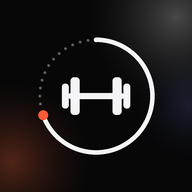
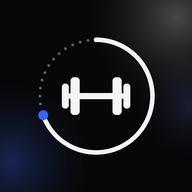
Azul royal como cor de destaque em todo o app e no ícone
Claude-Session: https://claude.ai/code/session_01H3tQpBPSyvaCY1RAgpn5Rv

Changed region(s): [[0.0, 0.6562, 0.25, 1.0], [0.1875, 0.5625, 0.25, 0.625]]

diff --git a/index.html b/index.html
@@ -24,7 +24,7 @@
 :root{
   --bg:#070708;--txt:#F5F5F7;--muted:#A1A1A6;--muted2:#8E8E93;
   --vidro:rgba(255,255,255,.07);--vidro2:rgba(255,255,255,.10);--borda:rgba(255,255,255,.10);--borda2:rgba(255,255,255,.16);
-  --campo:rgba(0,0,0,.32);--ok:#32D74B;--warn:#FF9F0A;--err:#FF453A;--info:#64D2FF;--vivo:#FF5A36;
+  --campo:rgba(0,0,0,.32);--ok:#32D74B;--warn:#FF9F0A;--err:#FF453A;--info:#64D2FF;--vivo:#2F55F0;--vivo-txt:#6C8CFF;
   --num:'Barlow Condensed',system-ui,sans-serif;--mola:cubic-bezier(.2,.8,.2,1);
   --nav-h:60px;--nav-b:16px;--topo-h:0px;--sessao-h:0px;--sb:env(safe-area-inset-bottom,0px);
 }
@@ -36,7 +36,7 @@ body{margin:0;min-height:100vh;color:var(--txt);
   padding:env(safe-area-inset-top,0px) env(safe-area-inset-right,0px) 0 env(safe-area-inset-left,0px)}
 body::before{content:'';position:fixed;inset:0;z-index:-1;pointer-events:none;background:
   radial-gradient(circle 440px at 100% 0%,rgba(255,255,255,.17),transparent 65%),
-  radial-gradient(circle 400px at 0% 72%,rgba(255,106,61,.17),transparent 65%),
+  radial-gradient(circle 400px at 0% 72%,rgba(47,85,240,.22),transparent 65%),
   radial-gradient(circle 300px at 100% 45%,rgba(130,150,255,.12),transparent 65%),var(--bg)}
 main{max-width:640px;margin:0 auto;padding:calc(16px + var(--topo-h)) 14px calc(var(--nav-h) + var(--nav-b) + var(--sb) + 28px)}
 #main .card,#main [id]{scroll-margin-top:calc(var(--topo-h) + 12px)}
@@ -139,7 +139,7 @@ details[open]>summary::before{transform:rotate(45deg)}
 .cal-d.sel{background:var(--txt);color:#0A0A0B}
 .cal-d .pts{display:flex;gap:4px;height:7px;font-style:normal}
 .pf,.pc{display:inline-block;width:7px;height:7px;border-radius:50%}
-.pf{background:#fff}.pc{background:#FF5A36}
+.pf{background:#fff}.pc{background:var(--vivo)}
 .cal-d.sel .pf{background:#0A0A0B}
 .cal-leg{display:flex;gap:18px;justify-content:center;margin-top:10px;font-size:13px;color:var(--muted2)}
 .cal-leg span{display:flex;align-items:center;gap:8px}
@@ -272,7 +272,7 @@ button.link{background:none;border:0;padding:0;min-height:0;color:var(--txt);tex
 #timer .t-meta{color:var(--muted);font-size:13px}
 #timer .t-parar{align-self:flex-start;margin-top:4px;min-height:44px;padding:0 18px;font-size:14px}
 #timer.pronto .t-prog{stroke:var(--vivo)}
-#timer.pronto .t-meta{color:var(--vivo)}
+#timer.pronto .t-meta{color:var(--vivo-txt)}
 #timer.passou .t-prog{stroke:var(--warn)}
 #timer.passou .t-meta{color:var(--warn)}
 #timer.pisca{animation:pisca .35s ease-in-out 4}
@@ -909,7 +909,7 @@ function viewHoje() {
   return els;
 }
 
-// 1.7.0: calendário do mês. Ponto branco = Academia, ponto laranja = Corrida (um treino não depende do dia da semana).
+// 1.7.0: calendário do mês. Ponto branco = Academia, ponto azul = Corrida (um treino não depende do dia da semana).
 // Toque no dia: abre essa data na tela Hoje.
 function marcasDoDia() {
   const m = new Map();
@@ -918,7 +918,7 @@ function marcasDoDia() {
   for (const o of Sessao.finalizadas()) add(o.data, o.dia);
   return m;
 }
-// Tira da semana (seg a dom) da data aberta: ponto branco = Academia, laranja = Corrida. Toque abre o dia.
+// Tira da semana (seg a dom) da data aberta: ponto branco = Academia, azul = Corrida. Toque abre o dia.
 function cardSemana() {
   const hj = hoje(), seg = somarDias(UI.data, -((diaDaSemana(UI.data) + 6) % 7)), marcas = marcasDoDia();
   const cols = [0, 1, 2, 3, 4, 5, 6].map(i => {
@@ -2570,7 +2570,7 @@ function apagarTudo() {
    do relógio (batimentos, ritmo e percurso a cada 5 s). Sem detalhe, mostra só os totais.
    ========================================================================== */
 const MESES_CURTO = ['jan', 'fev', 'mar', 'abr', 'mai', 'jun', 'jul', 'ago', 'set', 'out', 'nov', 'dez'];
-const REL_COR = { fundo: '#070708', txt: '#F5F5F7', muted: '#A1A1A6', vivo: '#FF5A36' };
+const REL_COR = { fundo: '#070708', txt: '#F5F5F7', muted: '#A1A1A6', vivo: '#2F55F0', vivoTxt: '#6C8CFF' };
 const REL_FORMATOS = [
   { id: 'painel', nome: 'Painel', w: 1080, h: 1920 }, // 1.7.0: o mesmo desenho do vídeo, no último quadro
   { id: 'stories', nome: 'Stories', w: 1080, h: 1920 },
@@ -2682,7 +2682,7 @@ function relFundo(c, w, h) {
     c.fillStyle = g; c.fillRect(0, 0, w, h);
   };
   brilho(w, 0, 1180, '255,255,255', 0.17);
-  brilho(0, h * 0.72, 1080, '255,106,61', 0.17);
+  brilho(0, h * 0.72, 1080, '47,85,240', 0.22);
   brilho(w, h * 0.45, 800, '130,150,255', 0.12);
 }
 function relCartao(c, x, y, w, h, r = 52) {
@@ -2700,13 +2700,13 @@ function relCabecalho(c, a, y) {
   const hora = relHora(a);
   relTexto(c, `CORRIDA · ${relDataTxt(a).toUpperCase()}${hora ? ' · ' + hora.toUpperCase() : ''}`, REL_M, y, { px: 30, peso: 600, cor: REL_COR.muted, ls: 6 });
 }
-// número grande + unidade em laranja
+// número grande + unidade em azul
 function relHero(c, a, y, px) {
   const val = a.km != null ? fmtKm(a.km) : a.t != null ? fmtTempo(a.t) : '—';
   const w = relTexto(c, val, REL_M - 6, y, { px, num: true });
-  if (a.km != null) relTexto(c, 'km', REL_M - 6 + w + px * 0.07, y, { px: px * 0.3, num: true, cor: REL_COR.vivo });
+  if (a.km != null) relTexto(c, 'km', REL_M - 6 + w + px * 0.07, y, { px: px * 0.3, num: true, cor: REL_COR.vivoTxt });
 }
-// linha de números com barra laranja à esquerda
+// linha de números com barra azul à esquerda
 function relStats(c, itens, x, y, w, { px = 110, alt = 150 } = {}) {
   const lista = itens.filter(i => i && i.val != null);
   if (!lista.length) return;
@@ -2725,7 +2725,7 @@ const relItensBase = a => [
   a.kcal != null ? { rot: 'Calorias', val: String(a.kcal), un: 'kcal' } : a.fcm != null ? { rot: 'FC média', val: String(a.fcm), un: 'bpm' } : null
 ].filter(Boolean);
 
-// percurso: ida em laranja, volta tracejada; largada, retorno e chegada marcados
+// percurso: ida em azul, volta tracejada; largada, retorno e chegada marcados
 function relRota(c, a, bx, by, bw, bh, { rotulos = true, esp = 9, brilho = false } = {}) {
   const P = a.rota;
   if (!P || P.length < 2) return false;
@@ -2738,7 +2738,7 @@ function relRota(c, a, bx, by, bw, bh, { rotulos = true, esp = 9, brilho = false
   const traco = (de, ate) => { c.beginPath(); for (let j = de; j <= ate; j++) (j === de ? c.moveTo(X(P[j]), Y(P[j])) : c.lineTo(X(P[j]), Y(P[j]))); c.stroke(); };
   c.save();
   c.lineCap = 'round'; c.lineJoin = 'round';
-  if (brilho) { c.shadowColor = 'rgba(255,90,54,.75)'; c.shadowBlur = 36; }
+  if (brilho) { c.shadowColor = 'rgba(47,85,240,.8)'; c.shadowBlur = 36; }
   c.strokeStyle = REL_COR.vivo; c.lineWidth = esp; traco(0, k);
   c.shadowBlur = 0;
   if (a.retorno) { c.strokeStyle = 'rgba(245,245,247,.82)'; c.lineWidth = esp * 0.55; c.setLineDash([esp * 1.7, esp * 1.5]); traco(k, P.length - 1); c.setLineDash([]); }
@@ -2821,7 +2821,7 @@ function relGraficoFC(c, a, x, y, w, h, { eixos = true } = {}) {
   c.save();
   c.beginPath(); pts.forEach(([px, py], i) => (i ? c.lineTo(px, py) : c.moveTo(px, py)));
   c.lineTo(pts[pts.length - 1][0], gy + gh); c.lineTo(pts[0][0], gy + gh); c.closePath();
-  const g = c.createLinearGradient(0, gy, 0, gy + gh); g.addColorStop(0, 'rgba(255,90,54,.30)'); g.addColorStop(1, 'rgba(255,90,54,0)');
+  const g = c.createLinearGradient(0, gy, 0, gy + gh); g.addColorStop(0, 'rgba(47,85,240,.34)'); g.addColorStop(1, 'rgba(47,85,240,0)');
   c.fillStyle = g; c.fill();
   c.beginPath(); pts.forEach(([px, py], i) => (i ? c.lineTo(px, py) : c.moveTo(px, py)));
   c.lineJoin = 'round'; c.lineCap = 'round'; c.lineWidth = eixos ? 6 : 5; c.strokeStyle = REL_COR.vivo; c.stroke();
@@ -2947,7 +2947,7 @@ function relPoster(c, a, W, H) {
   else relTexto(c, 'sem GPS nesta corrida', W / 2, 600, { px: 32, peso: 500, cor: REL_COR.muted, al: 'center' });
   const val = a.km != null ? fmtKm(a.km) : a.t != null ? fmtTempo(a.t) : '—';
   const w = relTexto(c, val, REL_M - 6, 1170, { px: 270, num: true });
-  if (a.km != null) relTexto(c, 'km', REL_M - 6 + w + 18, 1170, { px: 80, num: true, cor: REL_COR.vivo });
+  if (a.km != null) relTexto(c, 'km', REL_M - 6 + w + 18, 1170, { px: 80, num: true, cor: REL_COR.vivoTxt });
   const l = [a.t != null && fmtTempo(a.t), a.pace && `${fmtPace(a.pace)} /km`].filter(Boolean).join('   ·   ');
   relTexto(c, l, REL_M, 1260, { px: 36, peso: 600, cor: REL_COR.muted });
 }
@@ -3277,7 +3277,7 @@ function pnChip(c, a, P, e, idx) {
   relCartao(c, cx, cy, PN_CHIP.w, PN_CHIP.h, 30);
   relTexto(c, `KM ${idx + 1}`, cx + 28, cy + 44, { px: 22, peso: 600, cor: REL_COR.muted, ls: 4 });
   let xx = cx + 28;
-  xx += relTexto(c, fmtPace(par.pace), xx, cy + 112, { px: 70, num: true, cor: REL_COR.vivo }) + 8;
+  xx += relTexto(c, fmtPace(par.pace), xx, cy + 112, { px: 70, num: true, cor: REL_COR.vivoTxt }) + 8;
   xx += relTexto(c, '/km', xx, cy + 112, { px: 26, peso: 500, cor: REL_COR.muted }) + 22;
   if (par.fc != null) {
     xx += relTexto(c, String(par.fc), xx, cy + 112, { px: 70, num: true }) + 8;
@@ -3295,7 +3295,7 @@ function pnPercurso(c, a, P, e, kmAtual) {
   linha(pt.length - 1); c.lineWidth = sw; c.strokeStyle = 'rgba(255,255,255,.14)'; c.stroke();
   if (e.dm > 0) {
     const parcial = () => { c.beginPath(); pt.slice(0, atual.j + 1).forEach(([x, y], i) => (i ? c.lineTo(x, y) : c.moveTo(x, y))); c.lineTo(atual.x, atual.y); };
-    c.shadowColor = 'rgba(255,90,54,.85)'; c.shadowBlur = 34; parcial(); c.lineWidth = sw; c.strokeStyle = REL_COR.vivo; c.stroke();
+    c.shadowColor = 'rgba(47,85,240,.9)'; c.shadowBlur = 34; parcial(); c.lineWidth = sw; c.strokeStyle = REL_COR.vivo; c.stroke();
     c.shadowBlur = 0; parcial(); c.stroke();
   }
   c.restore();
@@ -3311,7 +3311,7 @@ function pnPercurso(c, a, P, e, kmAtual) {
   });
   c.beginPath(); c.arc(atual.x, atual.y, sw * 1.05, 0, 7);
   c.save(); c.shadowColor = REL_COR.vivo; c.shadowBlur = 40; c.fillStyle = '#fff'; c.fill(); c.restore();
-  c.beginPath(); c.arc(atual.x, atual.y, sw * 1.05 + sw * 0.25, 0, 7); c.lineWidth = sw * 0.5; c.strokeStyle = 'rgba(255,90,54,.55)'; c.stroke();
+  c.beginPath(); c.arc(atual.x, atual.y, sw * 1.05 + sw * 0.25, 0, 7); c.lineWidth = sw * 0.5; c.strokeStyle = 'rgba(47,85,240,.6)'; c.stroke();
   if (e.hold) pnChip(c, a, P, e, e.hold - 1);
 }
 
